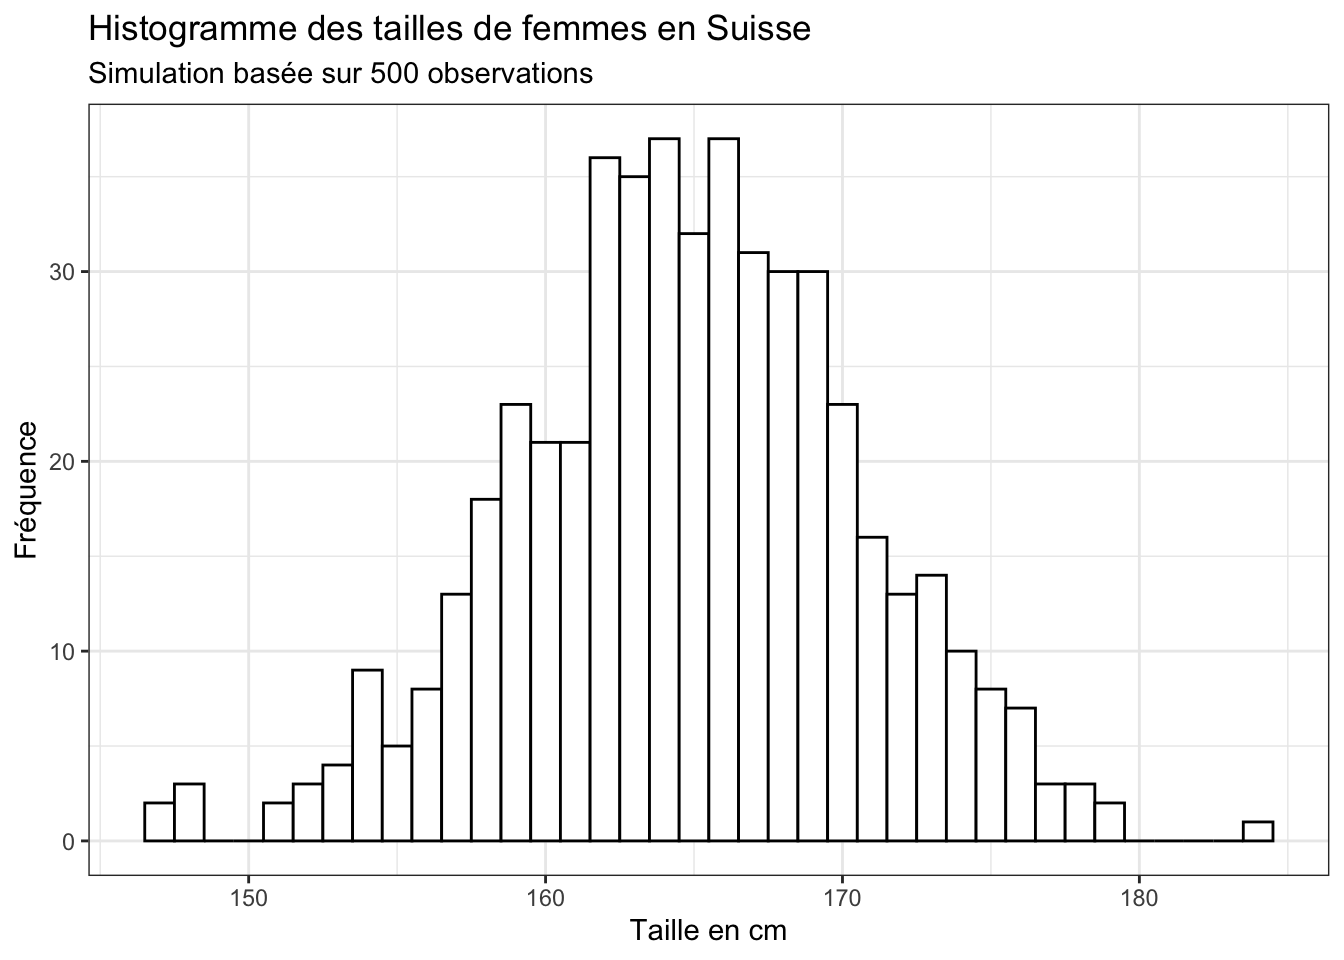
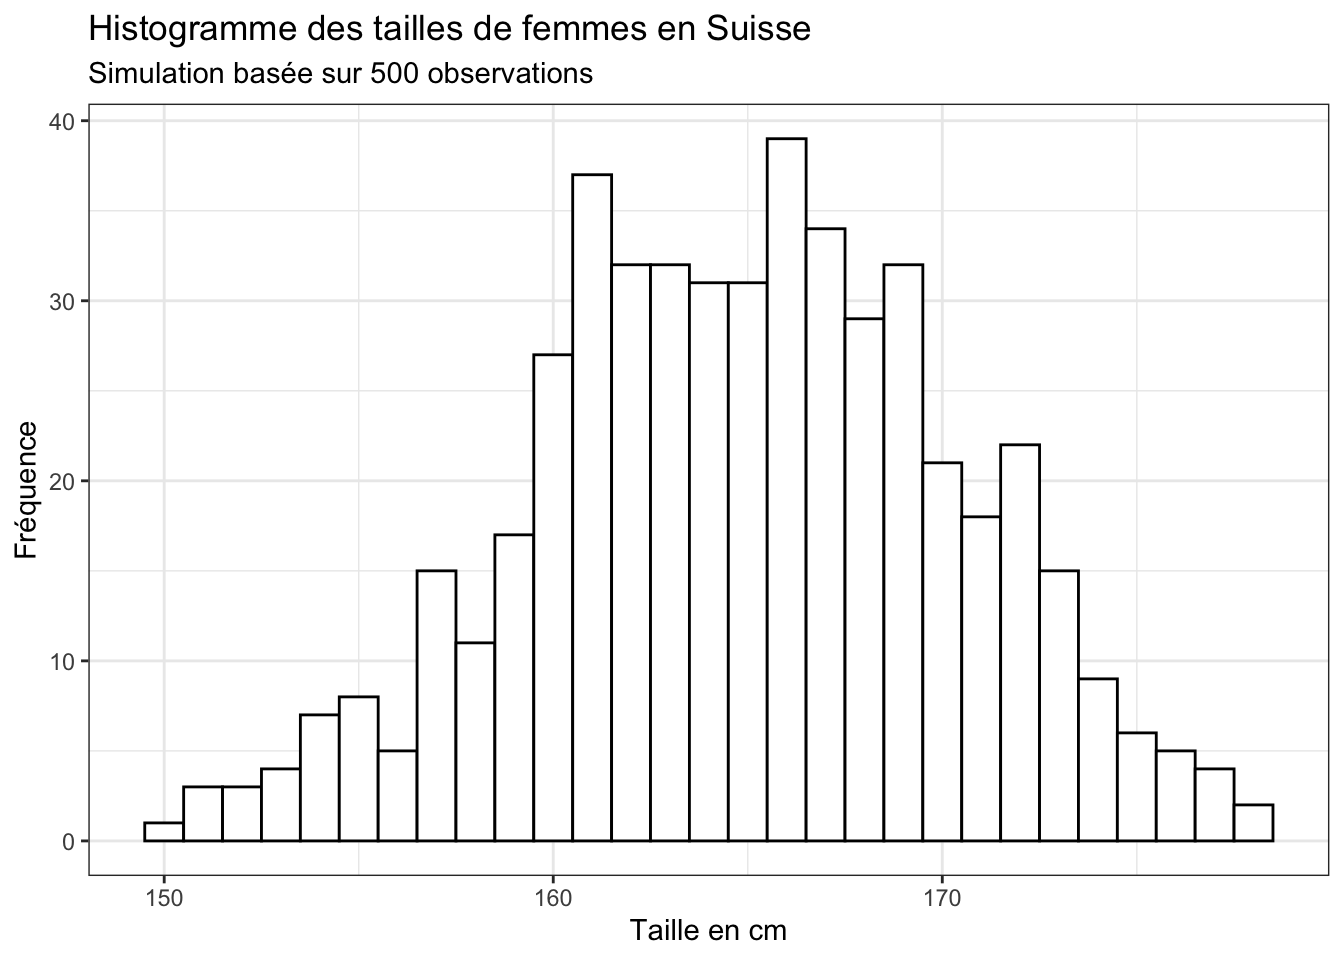
session 7 typos v4

diff --git a/index.html b/index.html
@@ -1728,7 +1728,7 @@ Attention
 <span id="cb100-5"><a href="#cb100-5" aria-hidden="true" tabindex="-1"></a></span>
 <span id="cb100-6"><a href="#cb100-6" aria-hidden="true" tabindex="-1"></a><span class="fu">head</span>(taille_f)</span></code><button title="Copy to Clipboard" class="code-copy-button"><i class="bi"></i></button></pre></div>
 <div class="cell-output cell-output-stdout">
-<pre><code>[1] 169.6682 171.6891 165.2242 159.7806 167.2126 166.4692</code></pre>
+<pre><code>[1] 162.1881 169.3388 171.1871 166.4731 159.8330 155.4983</code></pre>
 </div>
 <div class="sourceCode cell-code" id="cb102"><pre class="sourceCode r code-with-copy"><code class="sourceCode r"><span id="cb102-1"><a href="#cb102-1" aria-hidden="true" tabindex="-1"></a><span class="co"># stocker taille_f comme objet de type 'data.frame'</span></span>
 <span id="cb102-2"><a href="#cb102-2" aria-hidden="true" tabindex="-1"></a>taille_f <span class="ot">&lt;-</span> <span class="fu">as.data.frame</span>(taille_f)</span>
@@ -2225,19 +2225,20 @@ Astuce
 <span id="cb120-33"><a href="#cb120-33" aria-hidden="true" tabindex="-1"></a><span class="co"># colonnes dans un data frame</span></span>
 <span id="cb120-34"><a href="#cb120-34" aria-hidden="true" tabindex="-1"></a></span>
 <span id="cb120-35"><a href="#cb120-35" aria-hidden="true" tabindex="-1"></a><span class="co"># Par exemple, nous pouvons créer une nouvelle colonne qui</span></span>
-<span id="cb120-36"><a href="#cb120-36" aria-hidden="true" tabindex="-1"></a><span class="co"># compte le nombre d'interactions par follower</span></span>
+<span id="cb120-36"><a href="#cb120-36" aria-hidden="true" tabindex="-1"></a><span class="co"># compte le nombre d'interactions par follower :</span></span>
 <span id="cb120-37"><a href="#cb120-37" aria-hidden="true" tabindex="-1"></a></span>
 <span id="cb120-38"><a href="#cb120-38" aria-hidden="true" tabindex="-1"></a>df1 <span class="sc">%&gt;%</span></span>
 <span id="cb120-39"><a href="#cb120-39" aria-hidden="true" tabindex="-1"></a>    <span class="fu">mutate</span>(<span class="at">TI_par_Follower =</span> Total.Interactions<span class="sc">/</span>Followers.at.Posting)</span>
 <span id="cb120-40"><a href="#cb120-40" aria-hidden="true" tabindex="-1"></a></span>
 <span id="cb120-41"><a href="#cb120-41" aria-hidden="true" tabindex="-1"></a><span class="co"># Attention, sans opérateur &lt;-, nous ne changeons pas</span></span>
-<span id="cb120-42"><a href="#cb120-42" aria-hidden="true" tabindex="-1"></a><span class="co"># l'objet df1 Pour ce faire et sauvegarder notre nouvelle</span></span>
-<span id="cb120-43"><a href="#cb120-43" aria-hidden="true" tabindex="-1"></a><span class="co"># colonne, nous pouvons l'écraser :</span></span>
-<span id="cb120-44"><a href="#cb120-44" aria-hidden="true" tabindex="-1"></a></span>
-<span id="cb120-45"><a href="#cb120-45" aria-hidden="true" tabindex="-1"></a>df1 <span class="ot">&lt;-</span> df1 <span class="sc">%&gt;%</span></span>
-<span id="cb120-46"><a href="#cb120-46" aria-hidden="true" tabindex="-1"></a>    <span class="fu">mutate</span>(<span class="at">TI_par_Follower =</span> Total.Interactions<span class="sc">/</span>Followers.at.Posting)</span>
-<span id="cb120-47"><a href="#cb120-47" aria-hidden="true" tabindex="-1"></a></span>
-<span id="cb120-48"><a href="#cb120-48" aria-hidden="true" tabindex="-1"></a><span class="fu">str</span>(df1)</span></code><button title="Copy to Clipboard" class="code-copy-button"><i class="bi"></i></button></pre></div>
+<span id="cb120-42"><a href="#cb120-42" aria-hidden="true" tabindex="-1"></a><span class="co"># l'objet df1 !  Pour ce faire et sauvegarder notre</span></span>
+<span id="cb120-43"><a href="#cb120-43" aria-hidden="true" tabindex="-1"></a><span class="co"># nouvelle colonne, nous pouvons écraser df1 avec une</span></span>
+<span id="cb120-44"><a href="#cb120-44" aria-hidden="true" tabindex="-1"></a><span class="co"># nouvelle vérsion de df1 :</span></span>
+<span id="cb120-45"><a href="#cb120-45" aria-hidden="true" tabindex="-1"></a></span>
+<span id="cb120-46"><a href="#cb120-46" aria-hidden="true" tabindex="-1"></a>df1 <span class="ot">&lt;-</span> df1 <span class="sc">%&gt;%</span></span>
+<span id="cb120-47"><a href="#cb120-47" aria-hidden="true" tabindex="-1"></a>    <span class="fu">mutate</span>(<span class="at">TI_par_Follower =</span> Total.Interactions<span class="sc">/</span>Followers.at.Posting)</span>
+<span id="cb120-48"><a href="#cb120-48" aria-hidden="true" tabindex="-1"></a></span>
+<span id="cb120-49"><a href="#cb120-49" aria-hidden="true" tabindex="-1"></a><span class="fu">str</span>(df1)</span></code><button title="Copy to Clipboard" class="code-copy-button"><i class="bi"></i></button></pre></div>
 </div>
 </section>
 <section id="manipulation-de-lignes-avec-filter-et-arrange" class="level3">
